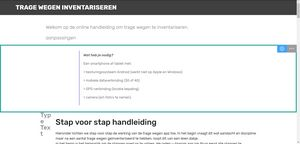
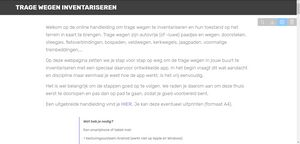
aanpassing_tekst

Changed region(s): [[0.0, 0.1667, 0.99, 1.0], [0.84, 0.0833, 1.0, 0.1944]]

diff --git a/index.html b/index.html
@@ -51,7 +51,7 @@
     </nav>
 </section>
 
-<section class="engine"><a href="https://mobirise.info/u">bootstrap responsive templates</a></section><section class="mbr-section article content3 cid-rQbUgujYzw" id="content3-n">
+<section class="engine"><a href="https://mobirise.info/v">html templates</a></section><section class="mbr-section article content3 cid-rQbUgujYzw" id="content3-n">
       
      
 
@@ -629,7 +629,7 @@
 <br>&gt; sluit de APP<br><br><strong>Terug thuis:</strong> 
 <br>&gt; zet WIFI aan 
 <br>&gt; open de APP en kies in het menu linksboven 'Foto's verzenden' en wacht tot alle foto's verzonden zijn. Dit kan even duren. 
-<br>&gt; Nadat de foto's verzonden zijn kies je in het menu voor 'Cache keegmaken', zowel de 'Foto verzendlijst' als 'Trage wegen'.<br><br>Sluit de app. Je bent nu helemaal klaar.
+<br>&gt; nadat de foto's verzonden zijn kies je in het menu voor 'Cache leegmaken', zowel de 'Foto verzendlijst' als 'Trage wegen'.<br><br>Sluit de app. Je bent nu helemaal klaar.
 <br>
 <br><strong>Heel erg bedankt voor jouw bijdrage!</strong><br></p>
                     </div>

diff --git a/page1.html b/page1.html
@@ -51,7 +51,7 @@
 </section>
 
 
-  <section class="engine"><a href="https://mobirise.info/n">free simple site templates</a></section><script src="assets/web/assets/jquery/jquery.min.js"></script>
+  <section class="engine"><a href="https://mobirise.info/u">bootstrap website templates</a></section><script src="assets/web/assets/jquery/jquery.min.js"></script>
   <script src="assets/popper/popper.min.js"></script>
   <script src="assets/bootstrap/js/bootstrap.min.js"></script>
   <script src="assets/tether/tether.min.js"></script>
